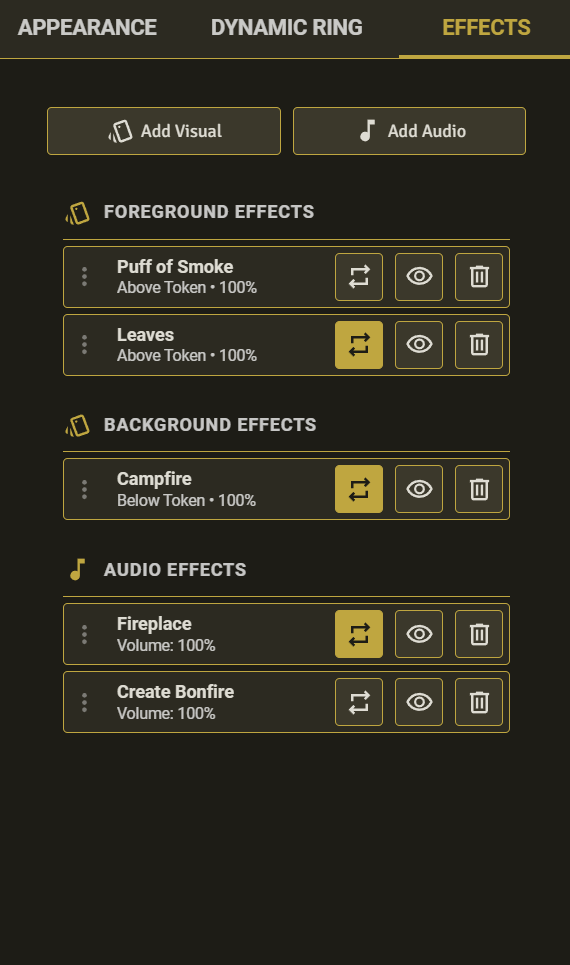
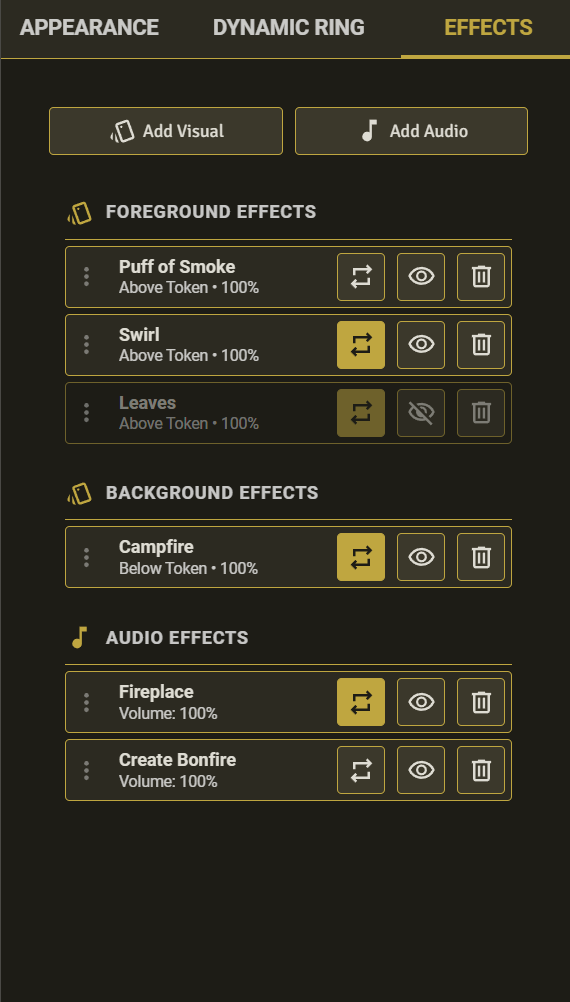
fix: effect visibility toggle disabling effect card

diff --git a/styles/visage.css b/styles/visage.css
@@ -1923,6 +1923,11 @@ li.context-item .visage-icon-domino {
     background: var(--visage-color-bg-light);
 }
 
+.effect-card.visage-disabled {
+    opacity: 0.5;
+    background: var(--visage-color-bg-darkest);
+}
+
 .effect-icon {
     width: 2rem;
     height: 2rem;
